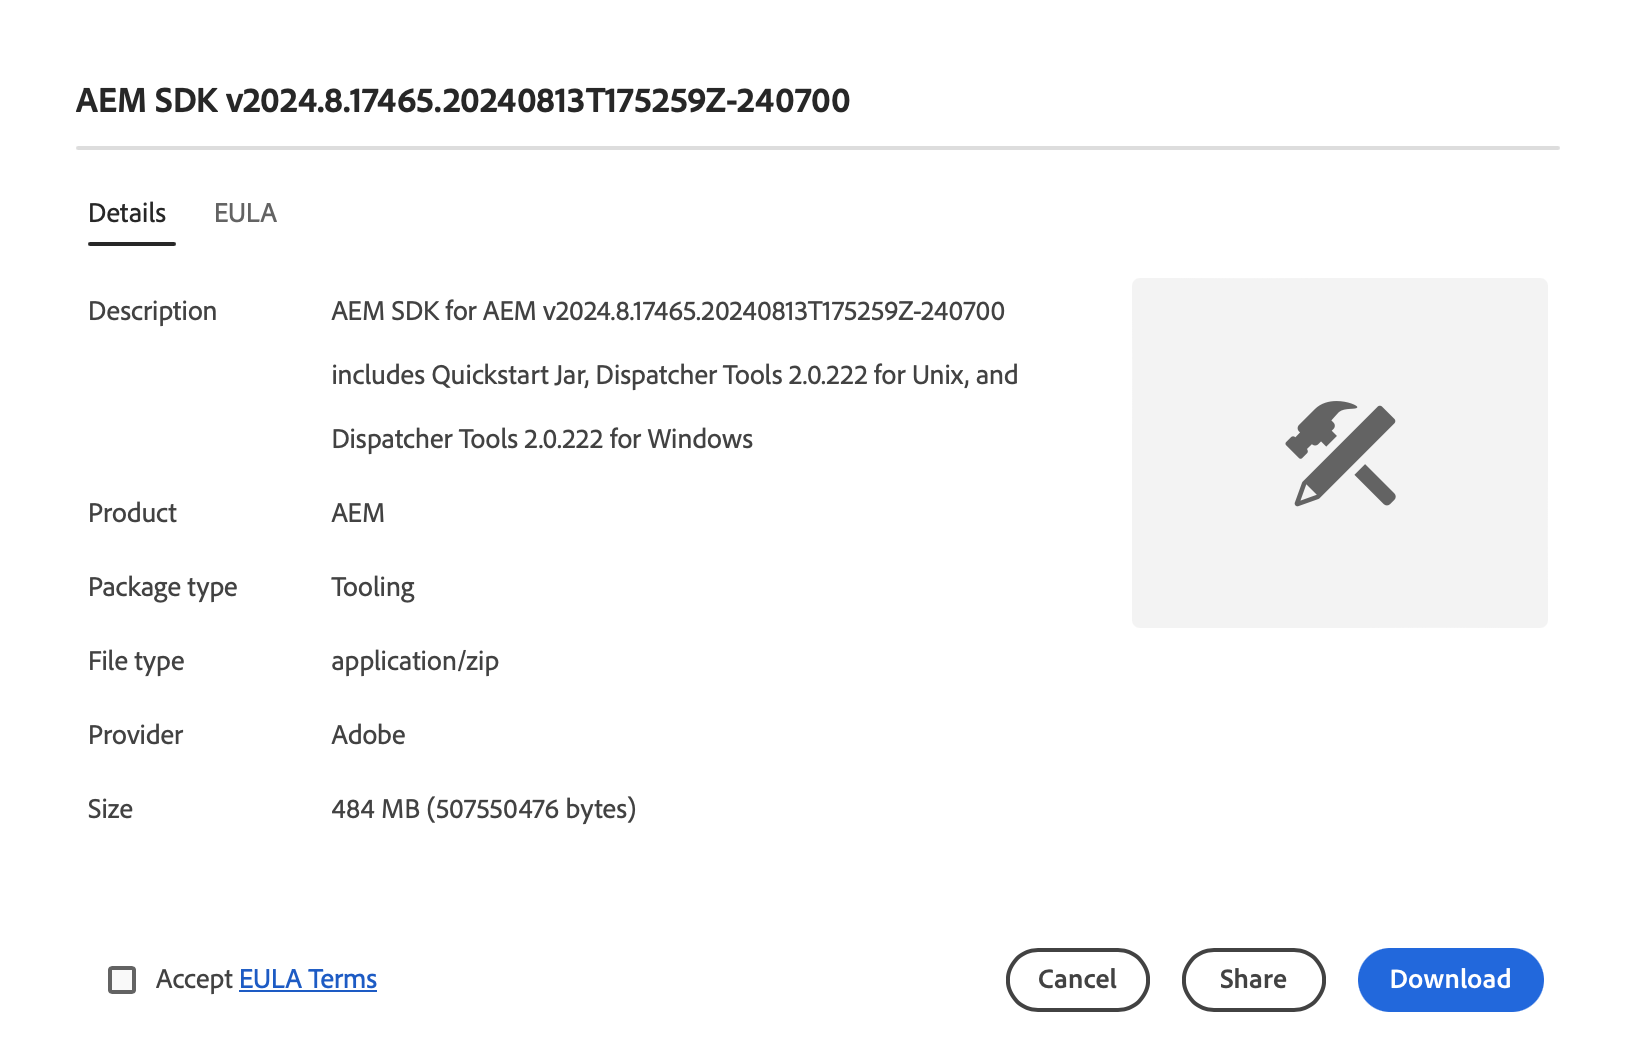
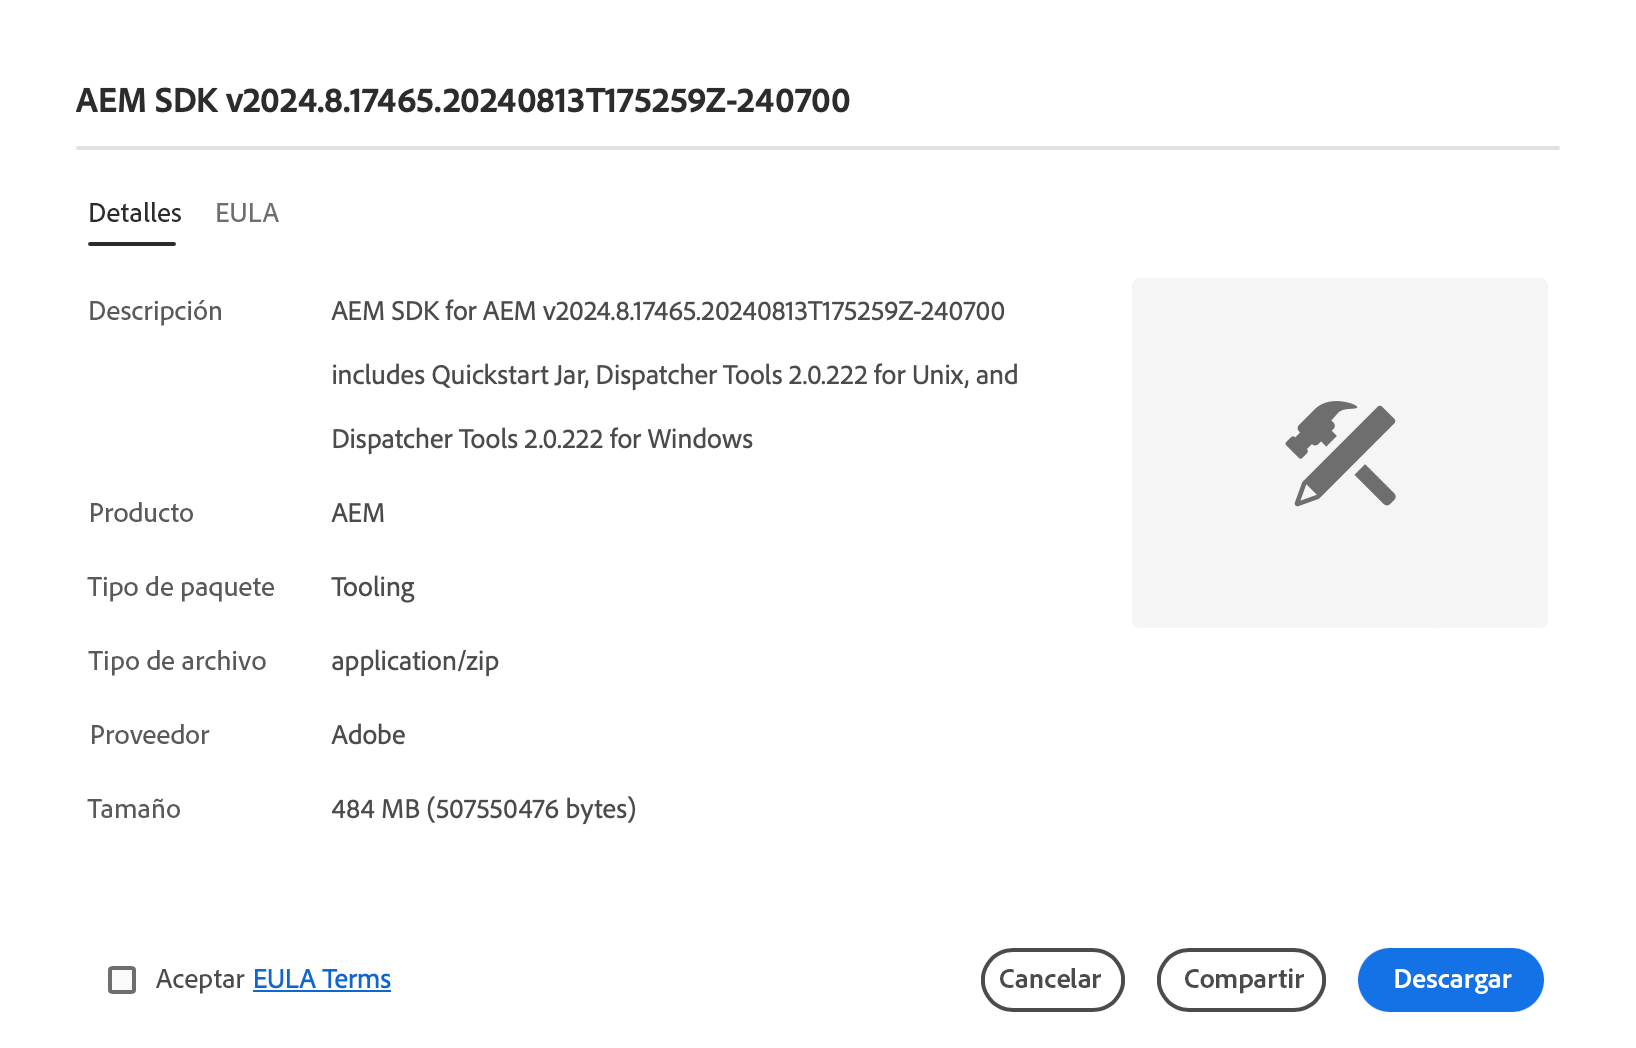
Updated by task 'AUTO_HANDOFF_1724428864251'  Changes for core/source commit https://git.corp.adobe.com/AdobeDocs/experience-cloud.en/commit/ab636c01910e4825bd9168c276b2fe14dead50a4

diff --git a/help/software-distribution/home.md b/help/software-distribution/home.md
@@ -3,9 +3,9 @@ title: Distribución de software
 description: Aprenda a utilizar Distribución de software para descargar el software de Adobe Experience Cloud.
 exl-id: ac559a28-4444-4326-ba92-78afd10ed9ab
 source-git-commit: 6a2ba27cfeae875ab9184760b6d233ef759dd460
-workflow-type: tm+mt
+workflow-type: ht
 source-wordcount: '430'
-ht-degree: 9%
+ht-degree: 100%
 
 ---
 
@@ -16,57 +16,57 @@ Aprenda a utilizar Distribución de software para descargar el software de Adobe
 
 ## Introducción
 
-Distribución de software proporciona una experiencia eficiente para encontrar y descargar el software de Adobe Experience Cloud. Los paquetes de software aprobados del Adobe y los paquetes de compañías asociadas están disponibles para los siguientes productos:
+Distribución de software proporciona una experiencia eficiente para encontrar y descargar el software de Adobe Experience Cloud. Los paquetes de software aprobados de Adobe y los paquetes de empresas asociadas ya están disponibles para los siguientes productos:
 
-1. **Adobe Experience Manager AEM** - Todo lo relacionado con el servicio y el mantenimiento, la seguridad, las herramientas y mucho más - para todas las versiones compatibles de la
-1. **Adobe Experience Manager as a [!UICONTROL Cloud Service AEM AEM]** - [!UICONTROL SDK de nube de], herramientas de migración de [!UICONTROL nube de] y más
-1. **Adobe Campaign** - Todas las versiones actuales del instalador [!DNL Campaign] y las herramientas relacionadas
-1. **General**: herramientas de uso general que incluyen [!DNL Oracle] JDK para clientes de Adobe
+1. **Adobe Experience Manager**: todo lo relacionado con el servicio y el mantenimiento, la seguridad, la puesta en marcha de herramientas y mucho más para todas las versiones de AEM compatibles.
+1. **Adobe Experience Manager as a [!UICONTROL Cloud Service]**: herramientas de migración de [!UICONTROL AEM Cloud SDK], [!UICONTROL AEM Cloud] y más
+1. **Adobe Campaign**: todas las versiones actuales del instalador de [!DNL Campaign] y las herramientas relacionadas
+1. **General**: herramientas de uso general que incluyen JDK de [!DNL Oracle] para clientes de Adobe
 
-El uso de la distribución de software es tan sencillo como:
+El uso de Distribución de software es tan sencillo como:
 
-1. [Acceso a distribución de software](#accessing)
-1. [Selección del producto](#selecting)
-1. [Encontrar la descarga](#finding)
+1. [Acceder a Distribución de software](#accessing)
+1. [Seleccionar el producto](#selecting)
+1. [Búsqueda de la descarga](#finding)
 1. [Descarga del software](#downloading)
 
 ## Acceso a la distribución de software {#accessing}
 
-Para acceder a la distribución de software, ve a [`https://experience.adobe.com/downloads`](https://experience.adobe.com/downloads) e inicia sesión en [!UICONTROL Distribución de software] con tu Adobe ID.
+Para acceder a Distribución de software, vaya a [`https://experience.adobe.com/downloads`](https://experience.adobe.com/downloads) e inicie sesión en [!UICONTROL Distribución de software] con su Adobe ID.
 
-## Selección del producto {#selecting}
+## Seleccionar el producto {#selecting}
 
-La interfaz de usuario de distribución de software está organizada por producto, como se muestra en el menú.
+La interfaz de usuario de Distribución de software está organizada por producto, como se muestra en el menú.
 
 ![Menú organizado por productos](assets/menu.png)
 
-Llega a la ficha **General**, donde puede encontrar descargas de software de uso general.
+En la ficha **General** puede encontrar descargas de software de uso general.
 
-Toque o haga clic en el producto en el menú para el que desea descargar el software. Solo pueden descargarse los productos con licencia de su organización.
+En el menú, toque o haga clic en el producto de software que desea descargar. Solo se pueden descargar aquellos productos para los que su organización tiene licencia.
 
-## Encontrar su descarga {#finding}
+## Búsqueda de la descarga {#finding}
 
-Una vez que haya seleccionado la pestaña de producto deseada, verá todas las descargas relacionadas. Utilice los filtros de búsqueda del panel izquierdo para encontrar rápidamente la descarga. Las opciones de filtro varían según el producto.
+Una vez que haya seleccionado la pestaña del producto que desea, verá todas las descargas relacionadas. Utilice los filtros de búsqueda del panel de la izquierda para buscar rápidamente la descarga. Las opciones de filtro varían según el producto.
 
 ![Filtros](assets/filters.png)
 
 ## Descarga del software {#downloading}
 
-Al tocar o hacer clic en una descarga mostrada, se abre un cuadro de diálogo que le proporciona más información sobre la descarga. Por ejemplo, puede ver una descripción, el nombre del proveedor y el EULA.
+Al tocar o hacer clic en una descarga mostrada, se abre un cuadro de diálogo que proporciona más información sobre la descarga. Por ejemplo, puede ver una descripción, el nombre del proveedor y el EULA.
 
-![Detalles de descarga](assets/details.png)
+![Detalles de la descarga](assets/details.png)
 
 Debe aceptar el EULA seleccionando **Aceptar términos del EULA** para habilitar el botón **Descargar**.
 
-También puedes compartir un enlace a esa descarga en particular tocando o haciendo clic en **Compartir** para copiar la URL.
+También puede compartir un vínculo a esa descarga en particular tocando o haciendo clic en **Compartir** para copiar la dirección URL.
 
-## Package Share {#package-share}
+## Uso compartido de paquetes {#package-share}
 
-AEM En junio de 2020, [!UICONTROL Distribución de software] reemplazó a [!UICONTROL Uso compartido de paquetes] para la y a [!DNL Neolane] para [!DNL Campaign]. Una interfaz de usuario intuitiva, una búsqueda simplificada y una velocidad de descarga notablemente mejorada hacen que la descarga de paquetes de software para productos de Experience Cloud sea una mejor experiencia al utilizar la distribución de software.
+En junio de 2020, [!UICONTROL Distribución de software] reemplazó a [!UICONTROL Uso compartido de paquetes] para AEM y [!DNL Neolane] para [!DNL Campaign]. Con una interfaz de usuario intuitiva, una búsqueda simplificada y una velocidad de descarga notablemente mejorada, la descarga de paquetes de software para productos de Experience Cloud ofrece una experiencia de usuario mejorada con Distribución de software.
 
 >[!IMPORTANT]
 >
->Las credenciales de inicio de sesión de [!UICONTROL Package Share] o [!DNL Neolane] no funcionarán para [!UICONTROL Distribución de software], que proporciona funciones para iniciar sesión con estándares de seguridad para todo el Adobe. Si no conoce su Adobe ID, póngase en contacto con un administrador de asistencia técnica de su organización.
+>Las credenciales de inicio de sesión de [!UICONTROL Uso compartido de paquetes] o [!DNL Neolane] no funcionarán en [!UICONTROL Distribución de software], que proporciona funciones para iniciar sesión con los estándares de seguridad de Adobe. Si no conoce su Adobe ID, póngase en contacto con un administrador de asistencia técnica de su organización.
 
 >[!NOTE]
 >
